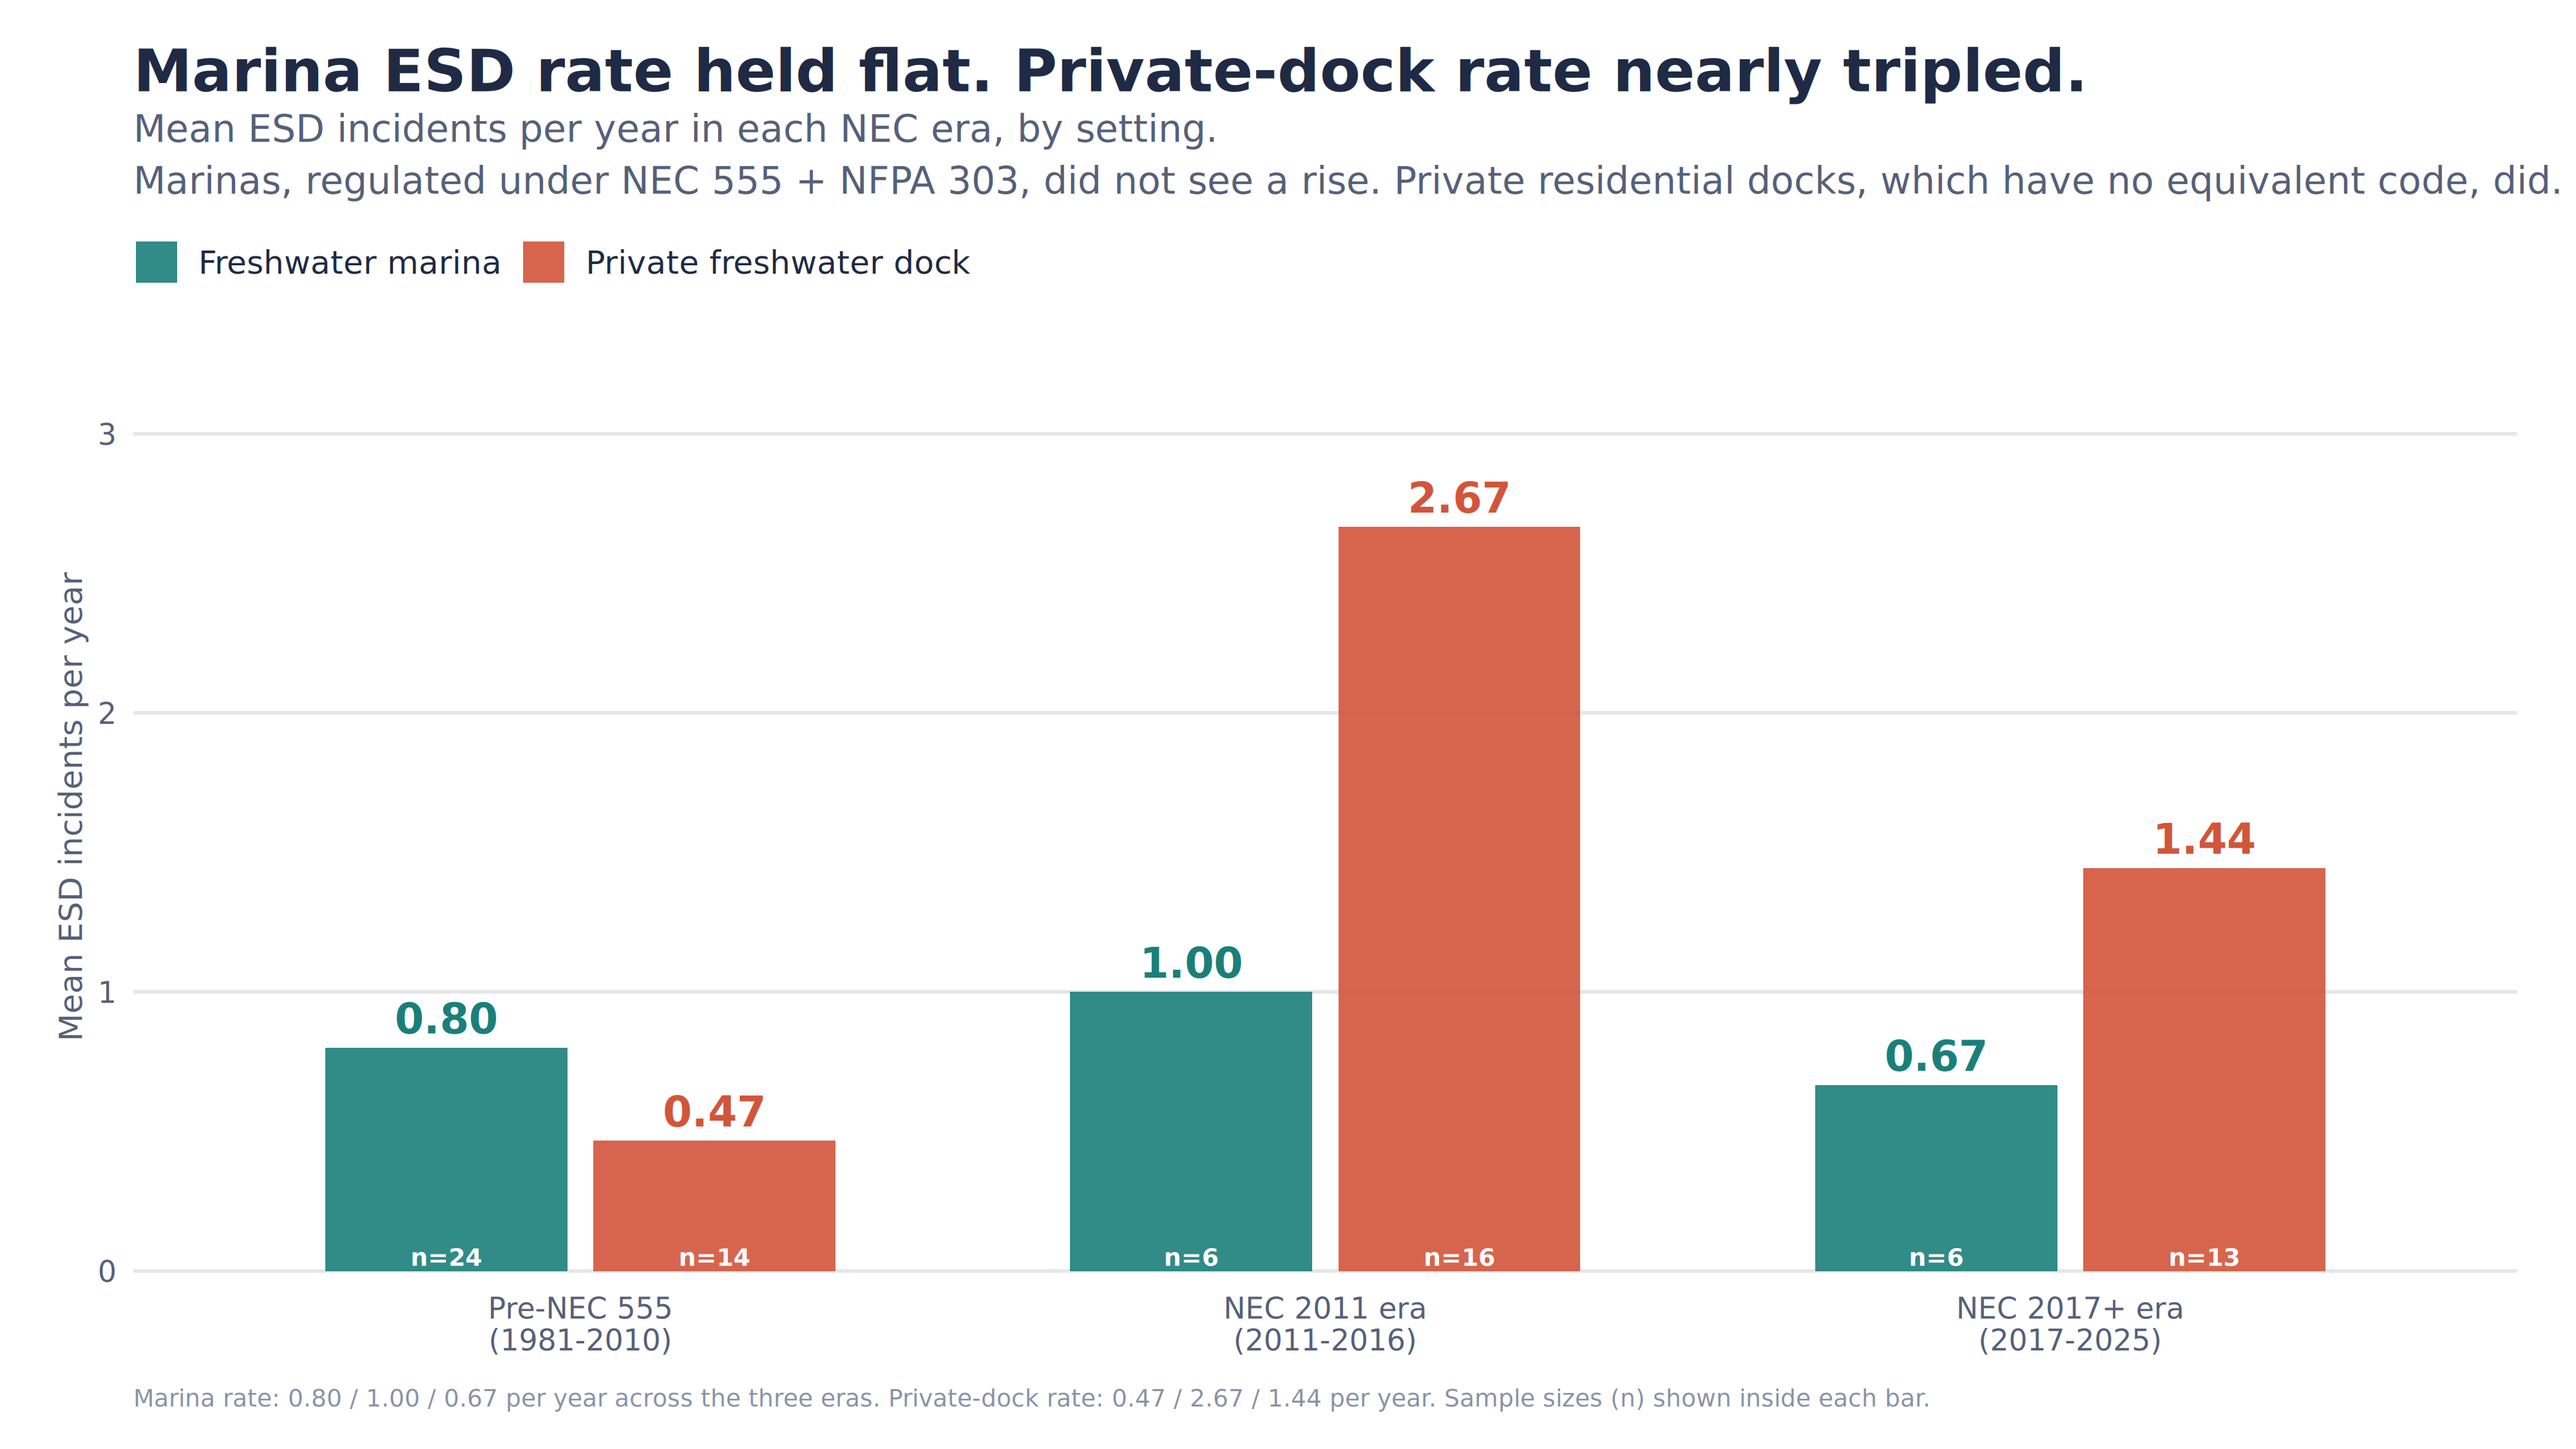
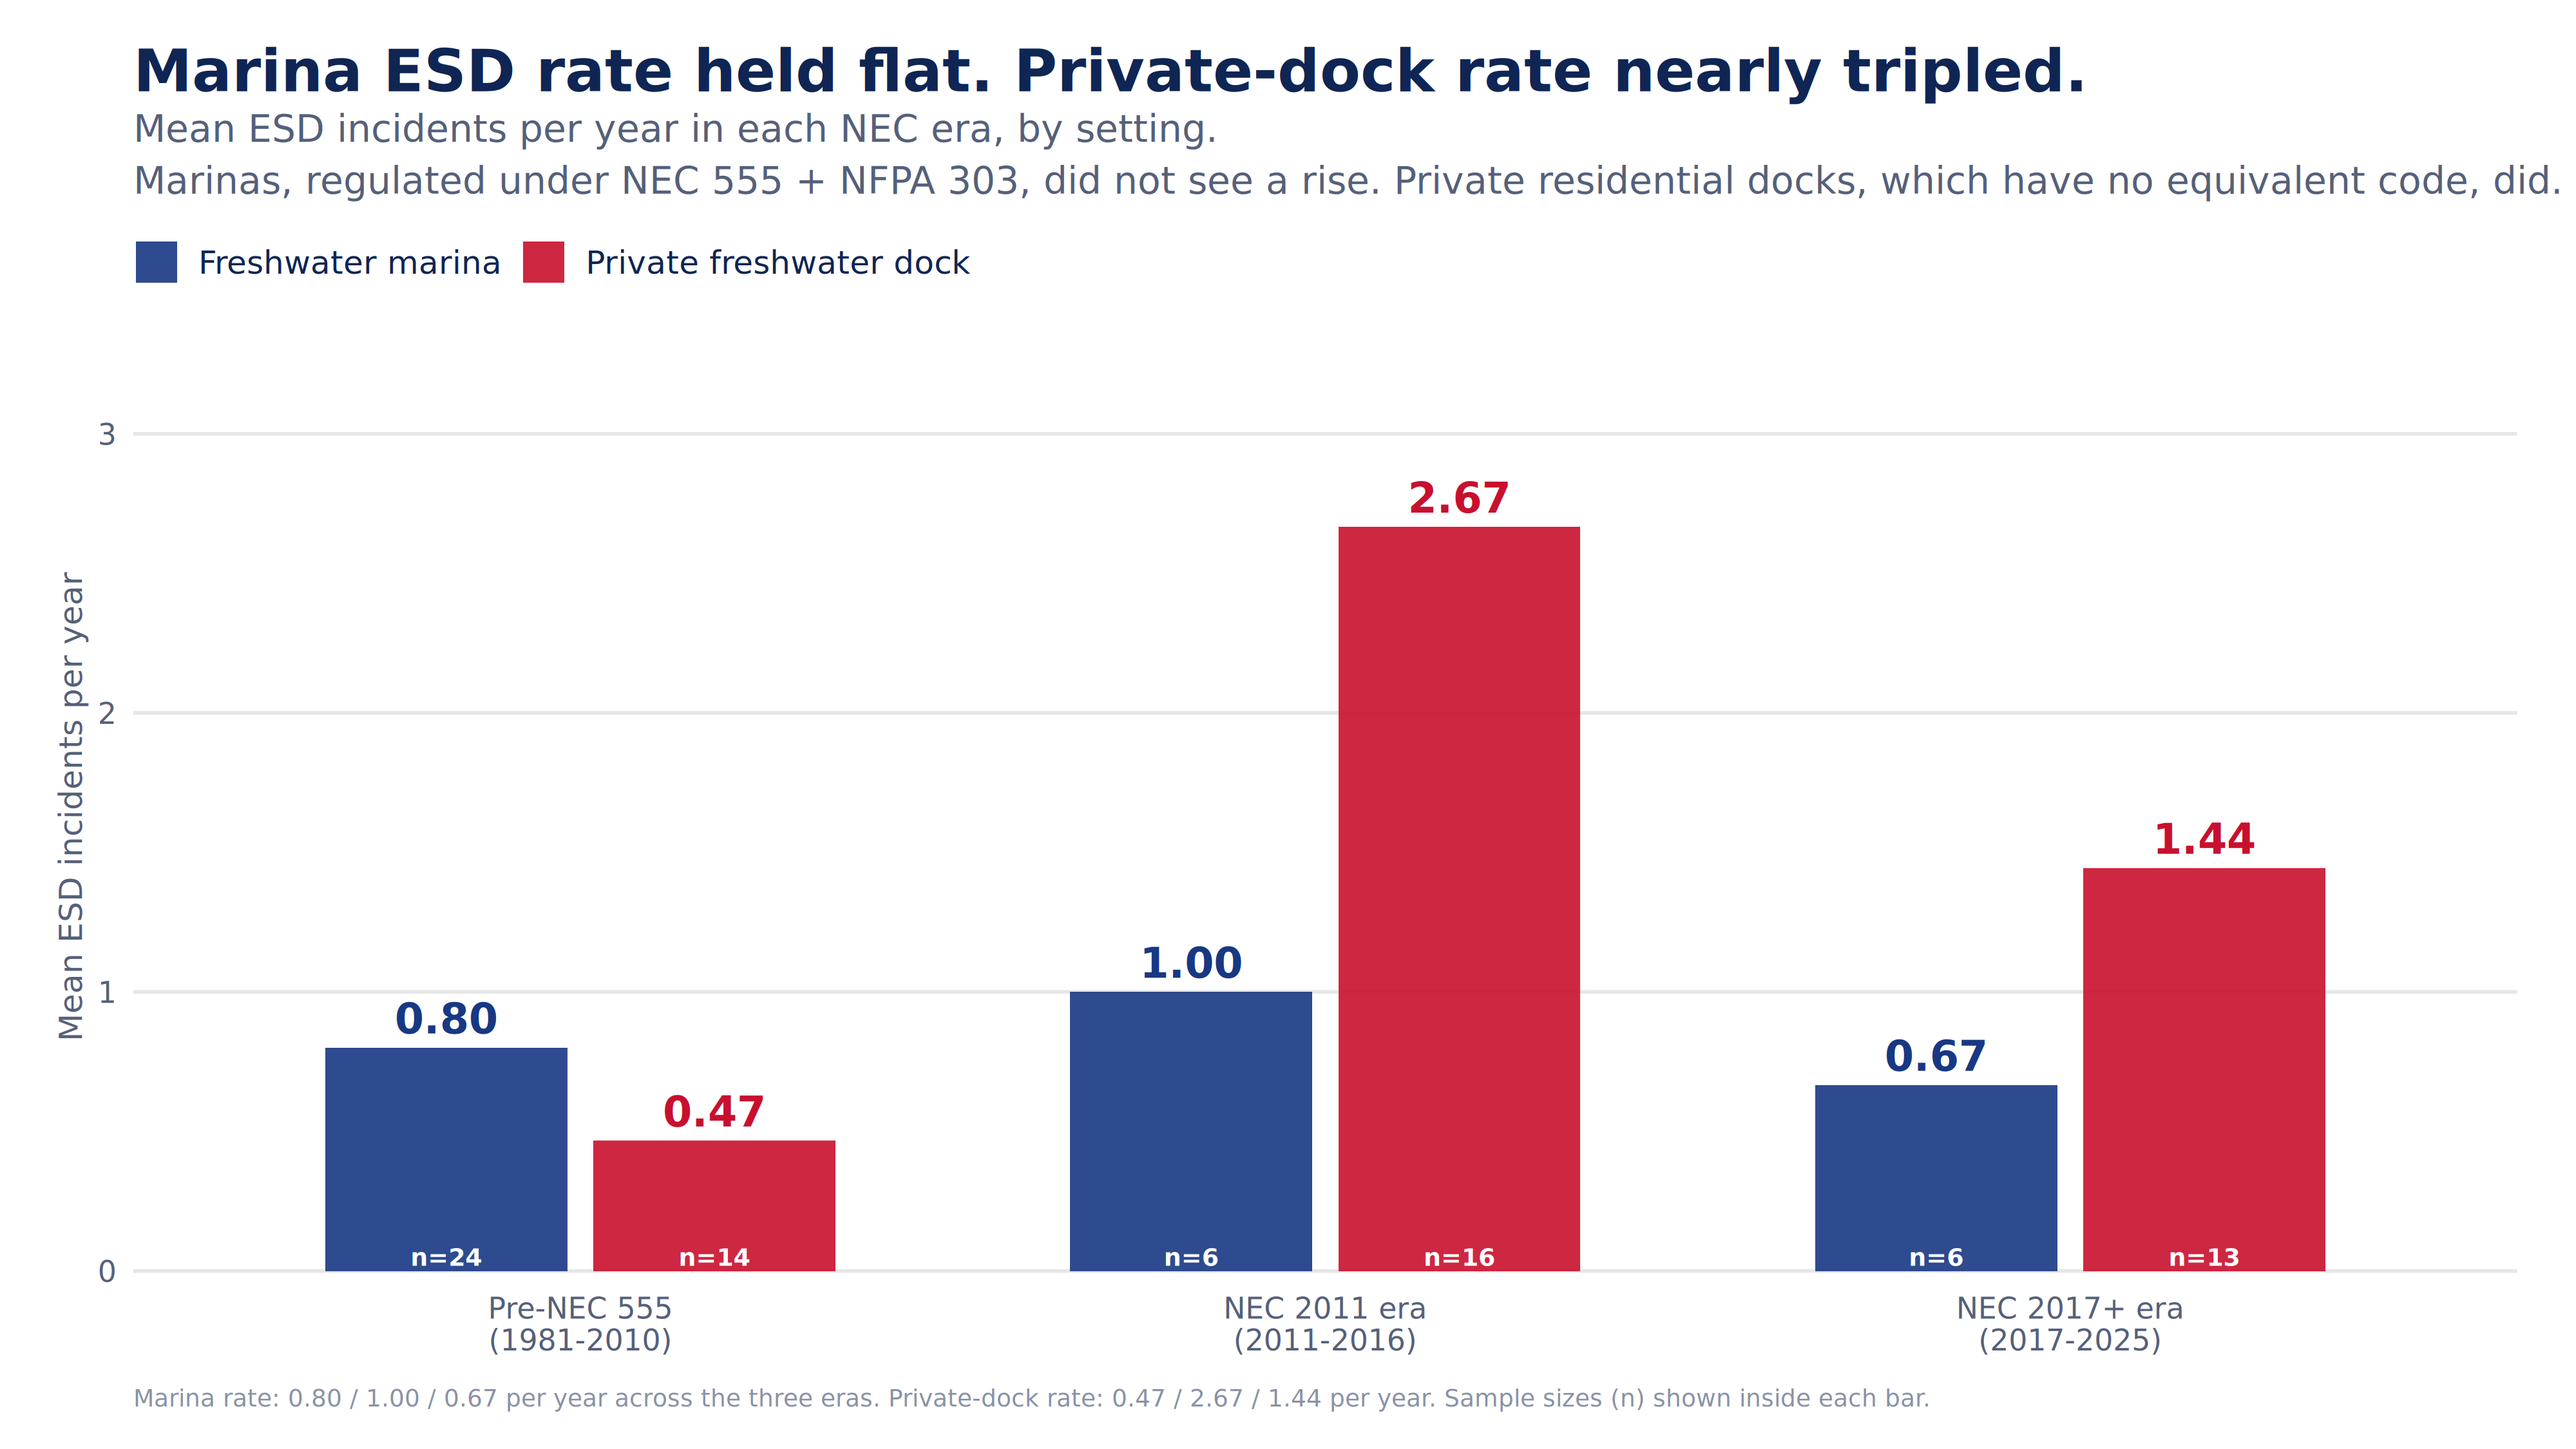
Rework hero chart as slopegraph; unify palette with map
Prior hero chart tried to show yearly bars, era means, NEC
annotations, and ratio callouts all at once — readable but not
understandable. Replaced with a slopegraph: 2 lines × 3 era-points,
rate labels on each point. Private dock line spikes after 2011
while marina line stays flat — the story is visible at a glance.

- Palette aligned to Nicole's deck: marina = navy #183883,
  private = crimson #C8102E (same as map categories)
- All three charts (hero, ratio, era bars) now share the palette
- Landing page: dropped "rough — see note" warning

diff --git a/index.html b/index.html
@@ -95,12 +95,12 @@
     <div class="card"><a href="images/map_heat_16x9.png"><img src="images/map_heat_16x9.png" alt="Heat map"></a><div class="label">Density / heat (16:9)</div></div>
   </div>
 
-  <h2>Charts (rough — see note)</h2>
-  <div class="note">The trend charts below don't tell the story cleanly yet. Granularity needs more work. Including them so you can see the direction; probably not ready for tomorrow.</div>
+  <h2>Charts: NEC 555 story</h2>
+  <p>Three views of the same finding — marinas got NEC 555 protections in 2011, private docks were left out, and the incident ratio flipped.</p>
   <div class="grid">
-    <div class="card"><a href="images/hero_nec_trend_16x9.png"><img src="images/hero_nec_trend_16x9.png" alt="NEC trend"></a><div class="label">Incidents over time vs. NEC code changes</div></div>
-    <div class="card"><a href="images/ratio_flip_16x9.png"><img src="images/ratio_flip_16x9.png" alt="Ratio flip"></a><div class="label">Private-dock vs. marina ratio</div></div>
-    <div class="card"><a href="images/era_bars_16x9.png"><img src="images/era_bars_16x9.png" alt="Era bars"></a><div class="label">Era comparison (bars)</div></div>
+    <div class="card"><a href="images/hero_nec_trend_16x9.png"><img src="images/hero_nec_trend_16x9.png" alt="NEC trend"></a><div class="label">Hero: mean incident rate per era, by setting</div></div>
+    <div class="card"><a href="images/ratio_flip_16x9.png"><img src="images/ratio_flip_16x9.png" alt="Ratio flip"></a><div class="label">Ratio flip — marina vs. private dock, per era</div></div>
+    <div class="card"><a href="images/era_bars_16x9.png"><img src="images/era_bars_16x9.png" alt="Era bars"></a><div class="label">Era comparison — side-by-side bars with sample sizes</div></div>
   </div>
 
   <h2>Data</h2>
